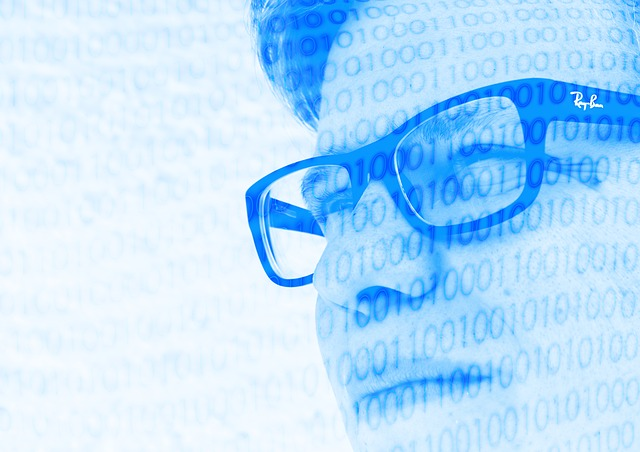
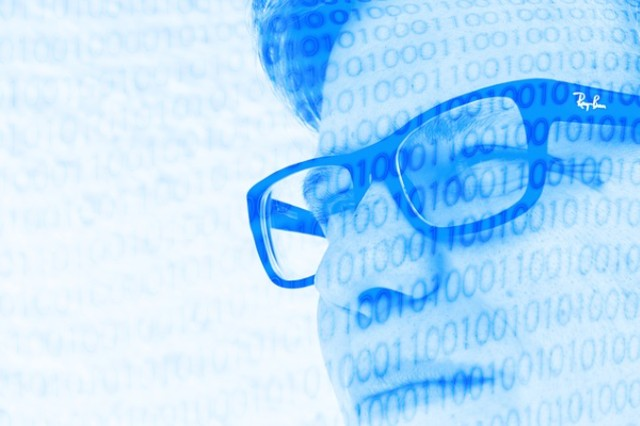
cleanup

Changed region(s): [[0.375, 0.0, 1.0, 1.0]]

diff --git a/bootstrap-grid.html b/bootstrap-grid.html
@@ -78,6 +78,8 @@
                             <div class="small-teal">H</div>
                         </div>
                     </div>
+                </div>
+            </div>
             <div class="row">
                 <div class="col-md-6 man mt-5">
                     <img src="img/man.jpg" width="640" class="picture" alt="">
@@ -144,19 +146,6 @@
         </div>
     </div>
 </main>
-
-
-
-
-
-
-
-
-
-
-
-
-
 
 <script src="https://code.jquery.com/jquery-3.3.1.slim.min.js" integrity="sha384-q8i/X+965DzO0rT7abK41JStQIAqVgRVzpbzo5smXKp4YfRvH+8abtTE1Pi6jizo" crossorigin="anonymous"></script>
 <script src="https://cdnjs.cloudflare.com/ajax/libs/popper.js/1.14.7/umd/popper.min.js" integrity="sha384-UO2eT0CpHqdSJQ6hJty5KVphtPhzWj9WO1clHTMGa3JDZwrnQq4sF86dIHNDz0W1" crossorigin="anonymous"></script>

diff --git a/css/bootstrap-grid.css b/css/bootstrap-grid.css
@@ -175,7 +175,6 @@
 }
 .picture{
     width: 100%;
-    height: 100%;
     border: 4px solid #E6E6E6;
 }
 .circle{
